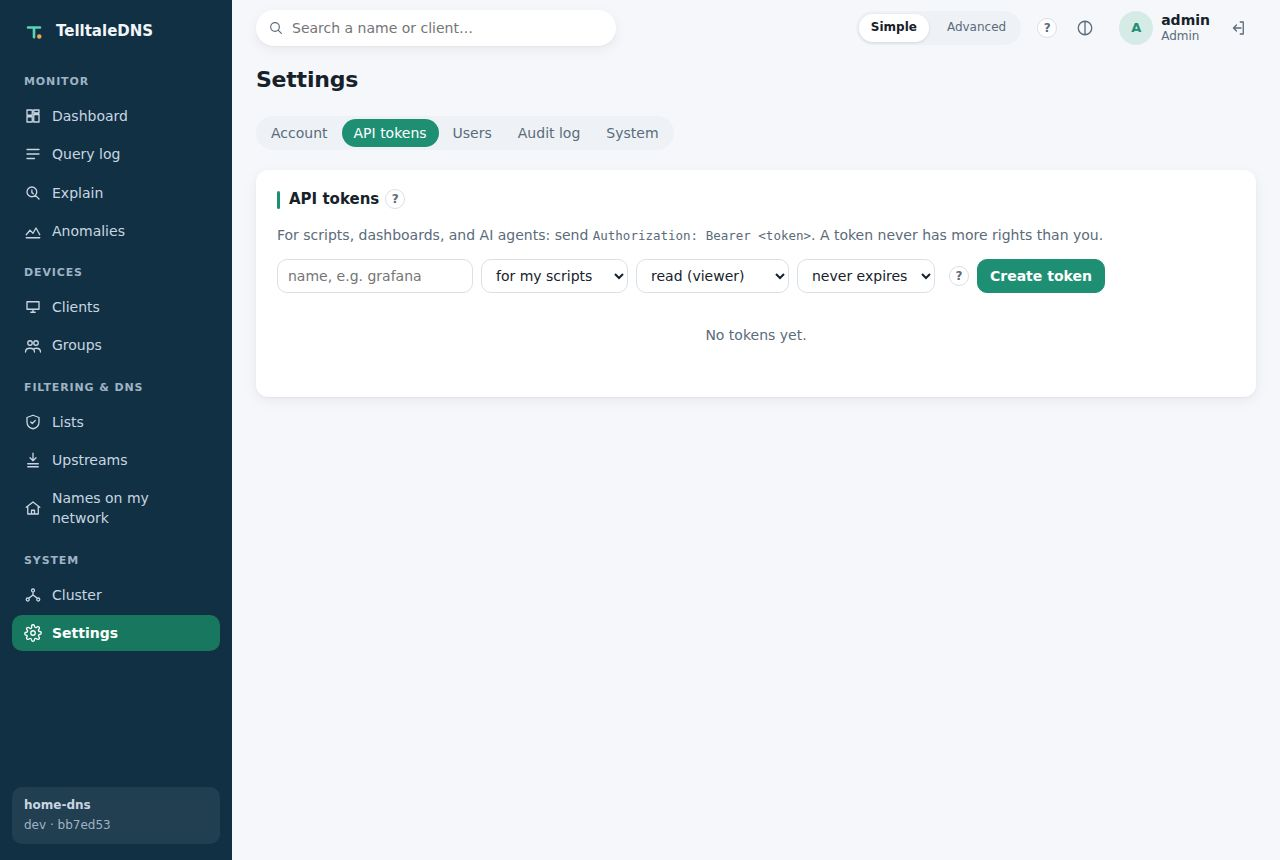
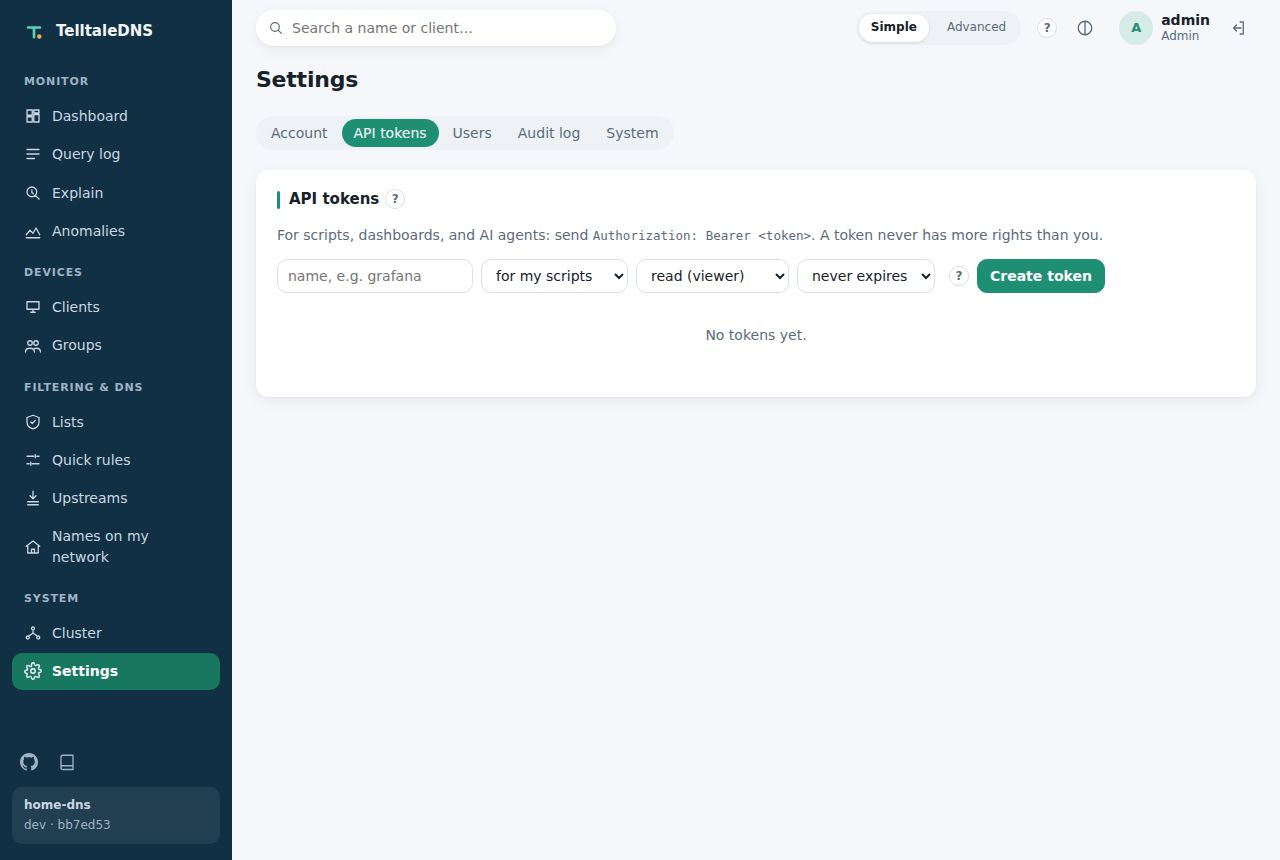
feat(ui): GitHub and project-site links above the version in the menu [API-005, DOC-006]
Icon links (GitHub mark, book) in the menu footer, opening in a new tab;
plain links, nothing is fetched. Screenshots refreshed (they now show
Quick rules in the menu). Docs: the Web UI section mentions the links,
the cache card, and the current bundle size.

Changed region(s): [[0.0, 0.5744, 0.1875, 0.8163], [0.0, 0.514, 0.0938, 0.5442], [0.0, 0.8767, 0.0625, 0.907]]

diff --git a/ui/src/App.svelte b/ui/src/App.svelte
@@ -154,6 +154,15 @@
         <button class="link small" aria-pressed={currentMode() === 'advanced'} onclick={() => setMode('advanced')}>Advanced view</button>
       </span>
       <span class="spacer"></span>
+      <!-- The project: plain links, nothing is fetched (works on an offline network). -->
+      <div class="project-links">
+        <a href="https://github.com/paimonsoror/telltaledns" target="_blank" rel="noreferrer" aria-label="TelltaleDNS on GitHub" title="TelltaleDNS on GitHub">
+          <svg viewBox="0 0 16 16" width="18" height="18" aria-hidden="true"><path fill="currentColor" d="M8 0C3.58 0 0 3.58 0 8c0 3.54 2.29 6.53 5.47 7.59.4.07.55-.17.55-.38 0-.19-.01-.82-.01-1.49-2.01.37-2.53-.49-2.69-.94-.09-.23-.48-.94-.82-1.13-.28-.15-.68-.52-.01-.53.63-.01 1.08.58 1.23.82.72 1.21 1.87.87 2.33.66.07-.52.28-.87.51-1.07-1.78-.2-3.64-.89-3.64-3.95 0-.87.31-1.59.82-2.15-.08-.2-.36-1.02.08-2.12 0 0 .67-.21 2.2.82.64-.18 1.32-.27 2-.27.68 0 1.36.09 2 .27 1.53-1.04 2.2-.82 2.2-.82.44 1.1.16 1.92.08 2.12.51.56.82 1.27.82 2.15 0 3.07-1.87 3.75-3.65 3.95.29.25.54.73.54 1.48 0 1.07-.01 1.93-.01 2.2 0 .21.15.46.55.38A8.013 8.013 0 0016 8c0-4.42-3.58-8-8-8z" /></svg>
+        </a>
+        <a href="https://paimonsoror.github.io/telltaledns/" target="_blank" rel="noreferrer" aria-label="Project site and guides" title="Project site and guides">
+          <Icon name="book" size={18} />
+        </a>
+      </div>
       <!-- REQ: OPS-004 (ADR-046) — which build this is, and whether a newer one exists. -->
       {#if info?.build}
         <a class="build small" href="#/settings?tab=system" data-testid="build-footer" title={`commit ${info.build.commit}, ${info.build.target}`}>
@@ -281,6 +290,27 @@
   .count.alert {
     background: var(--bad);
     color: var(--on-bad);
+  }
+  .project-links {
+    display: flex;
+    gap: 4px;
+    margin-top: 16px;
+  }
+  .project-links a {
+    display: grid;
+    place-items: center;
+    width: 34px;
+    height: 34px;
+    border-radius: 8px;
+    color: var(--side-muted);
+  }
+  .project-links a:hover,
+  .project-links a:focus-visible {
+    background: var(--side-hover);
+    color: var(--side-text);
+  }
+  .project-links + .build {
+    margin-top: 6px;
   }
   .build {
     display: grid;

diff --git a/ui/tests/e2e/1-ui.spec.ts b/ui/tests/e2e/1-ui.spec.ts
@@ -114,6 +114,17 @@ test('explain page', async () => {
   await expect(page.locator('.explain')).toContainText('blocked');
 });
 
+test('the menu links to the project on GitHub and its site', async () => {
+  await page.goto('/#/');
+  const gh = page.getByRole('link', { name: 'TelltaleDNS on GitHub' });
+  await expect(gh).toHaveAttribute('href', 'https://github.com/paimonsoror/telltaledns');
+  await expect(gh).toHaveAttribute('target', '_blank');
+  await expect(page.getByRole('link', { name: 'Project site and guides' })).toHaveAttribute(
+    'href',
+    'https://paimonsoror.github.io/telltaledns/',
+  );
+});
+
 test('lists, groups, clients, upstreams, local DNS render', async () => {
   for (const [path, text] of [
     ['/#/lists', 'e2e-block'],

diff --git a/ui/src/lib/components/Icon.svelte b/ui/src/lib/components/Icon.svelte
@@ -19,6 +19,7 @@
     moon: 'M21 12.8A9 9 0 1 1 11.2 3a7 7 0 0 0 9.8 9.8z',
     auto: 'M12 21a9 9 0 1 0 0-18 9 9 0 0 0 0 18zM12 3v18',
     menu: 'M4 6h16M4 12h16M4 18h16',
+    book: 'M4 19.5A2.5 2.5 0 0 1 6.5 17H20V3H6.5A2.5 2.5 0 0 0 4 5.5zM4 19.5A2.5 2.5 0 0 0 6.5 22H20v-5',
     logout: 'M15 4h4v16h-4M10 8l-4 4 4 4M6 12h10',
   };
 </script>

diff --git a/docs/running.md b/docs/running.md
@@ -1136,11 +1136,13 @@ Open `http://<server>:8053/` in a browser. On first start it asks for the setup 
 | Query log | search by name (contains, exact, subdomains, wildcard, regex), client, status, type, response code, slowness, and time; each row shows how long it took and how much of that was the upstream; **Why?** explains the decision. Filters live in the URL, so a search can be bookmarked or shared. **Live** streams new matching queries as they happen (the newest 500 stay on screen) |
 | Explain | why any name is or isn't blocked for any device |
 | Clients, Groups, Lists, Upstreams | devices seen and configured; groups and their lists; list download state and size; upstream health (circuit breaker), traffic, and latency |
-| Settings | your password and two-factor sign-in, API tokens, users and the audit log (admins), and system information |
+| Settings | your password and two-factor sign-in, API tokens, users and the audit log (admins), system information, and the cache ([Cache tools](#cache-tools)) |
 
 Every chart has a **Table** view. The UI follows the system's light or dark theme (or pick one in the header) and works on phones. Lists, groups, and local records are read-only in the UI for now; edit the configuration and reload.
 
-The UI is part of the binary (about 60 KiB compressed). The page is served with a strict Content Security Policy and can't be framed.
+The menu ends with links to the project on GitHub and its site (plain links: the UI fetches nothing from the internet), then this node's name and version.
+
+The UI is part of the binary (about 100 KiB compressed). The page is served with a strict Content Security Policy and can't be framed.
 
 ## API
 A REST API (JSON) listens on `0.0.0.0:8053` by default and also serves `/metrics` and the health probes:
